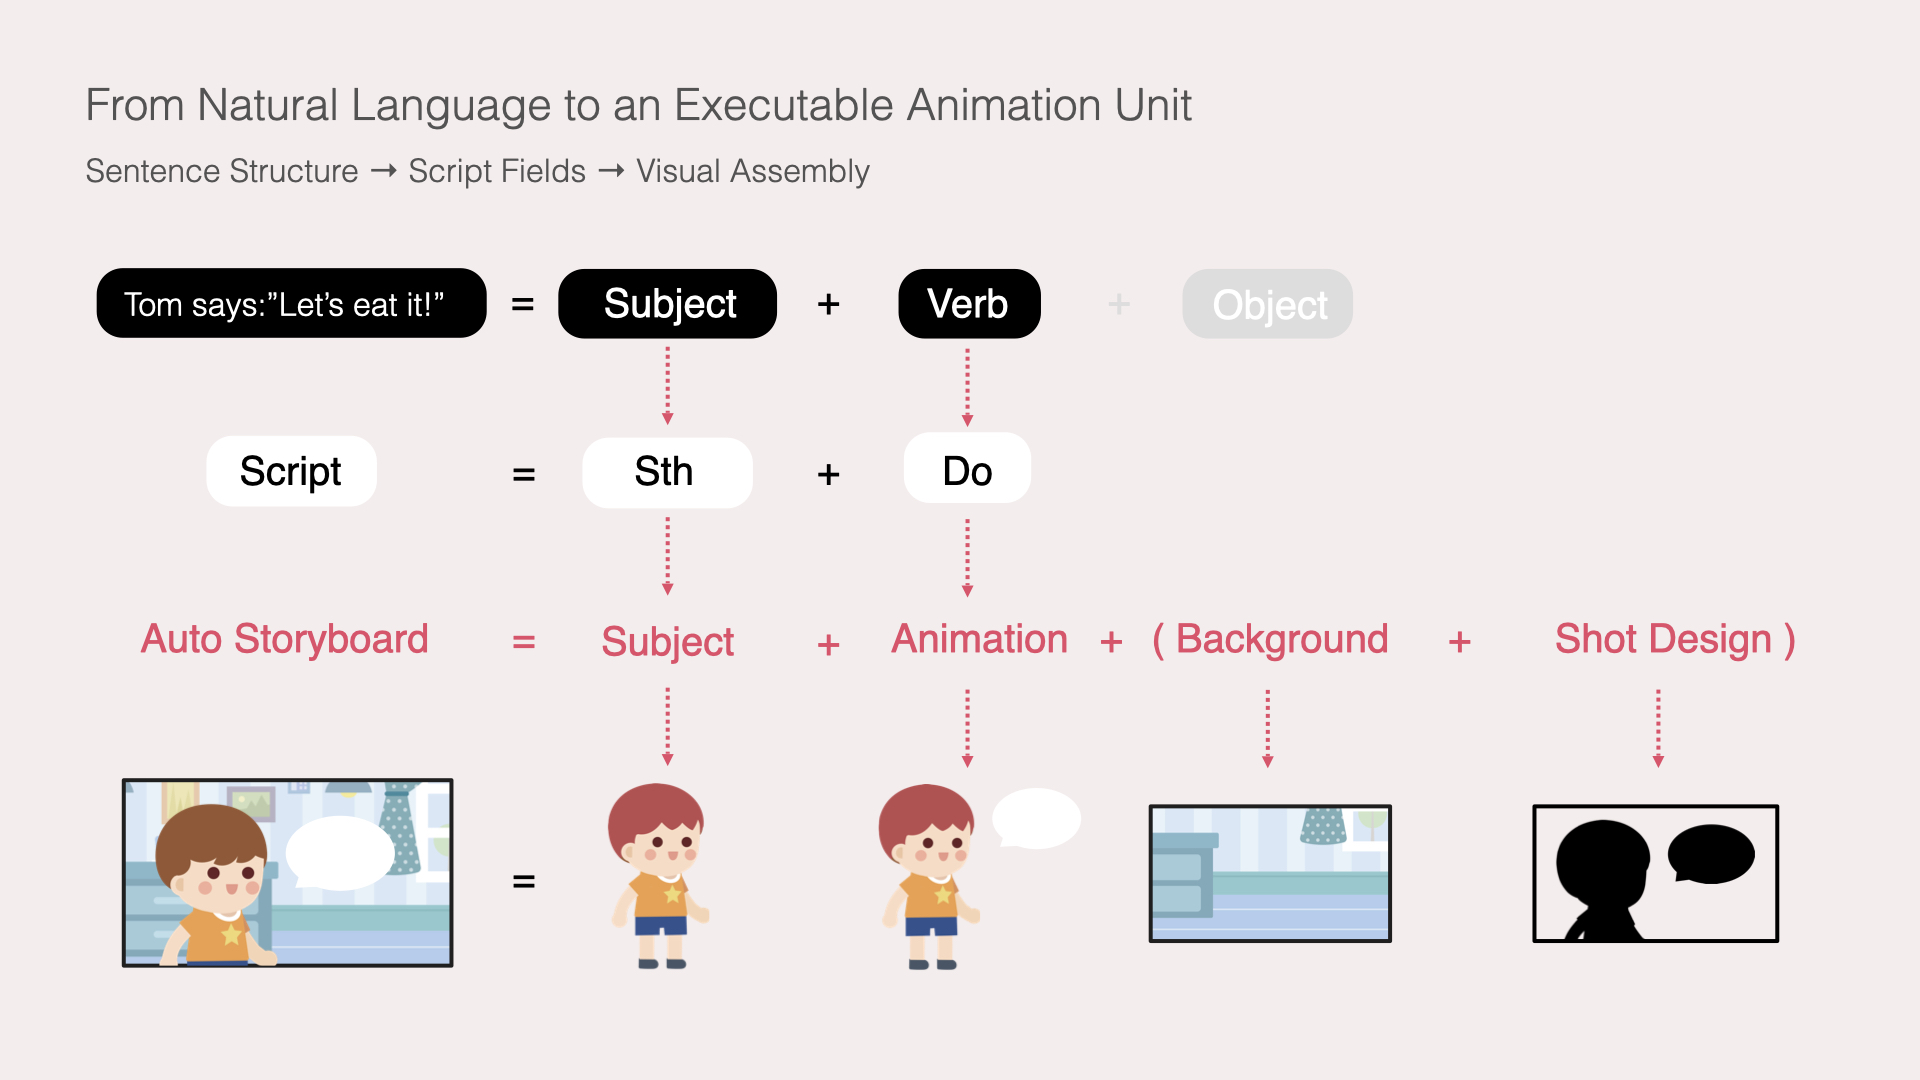
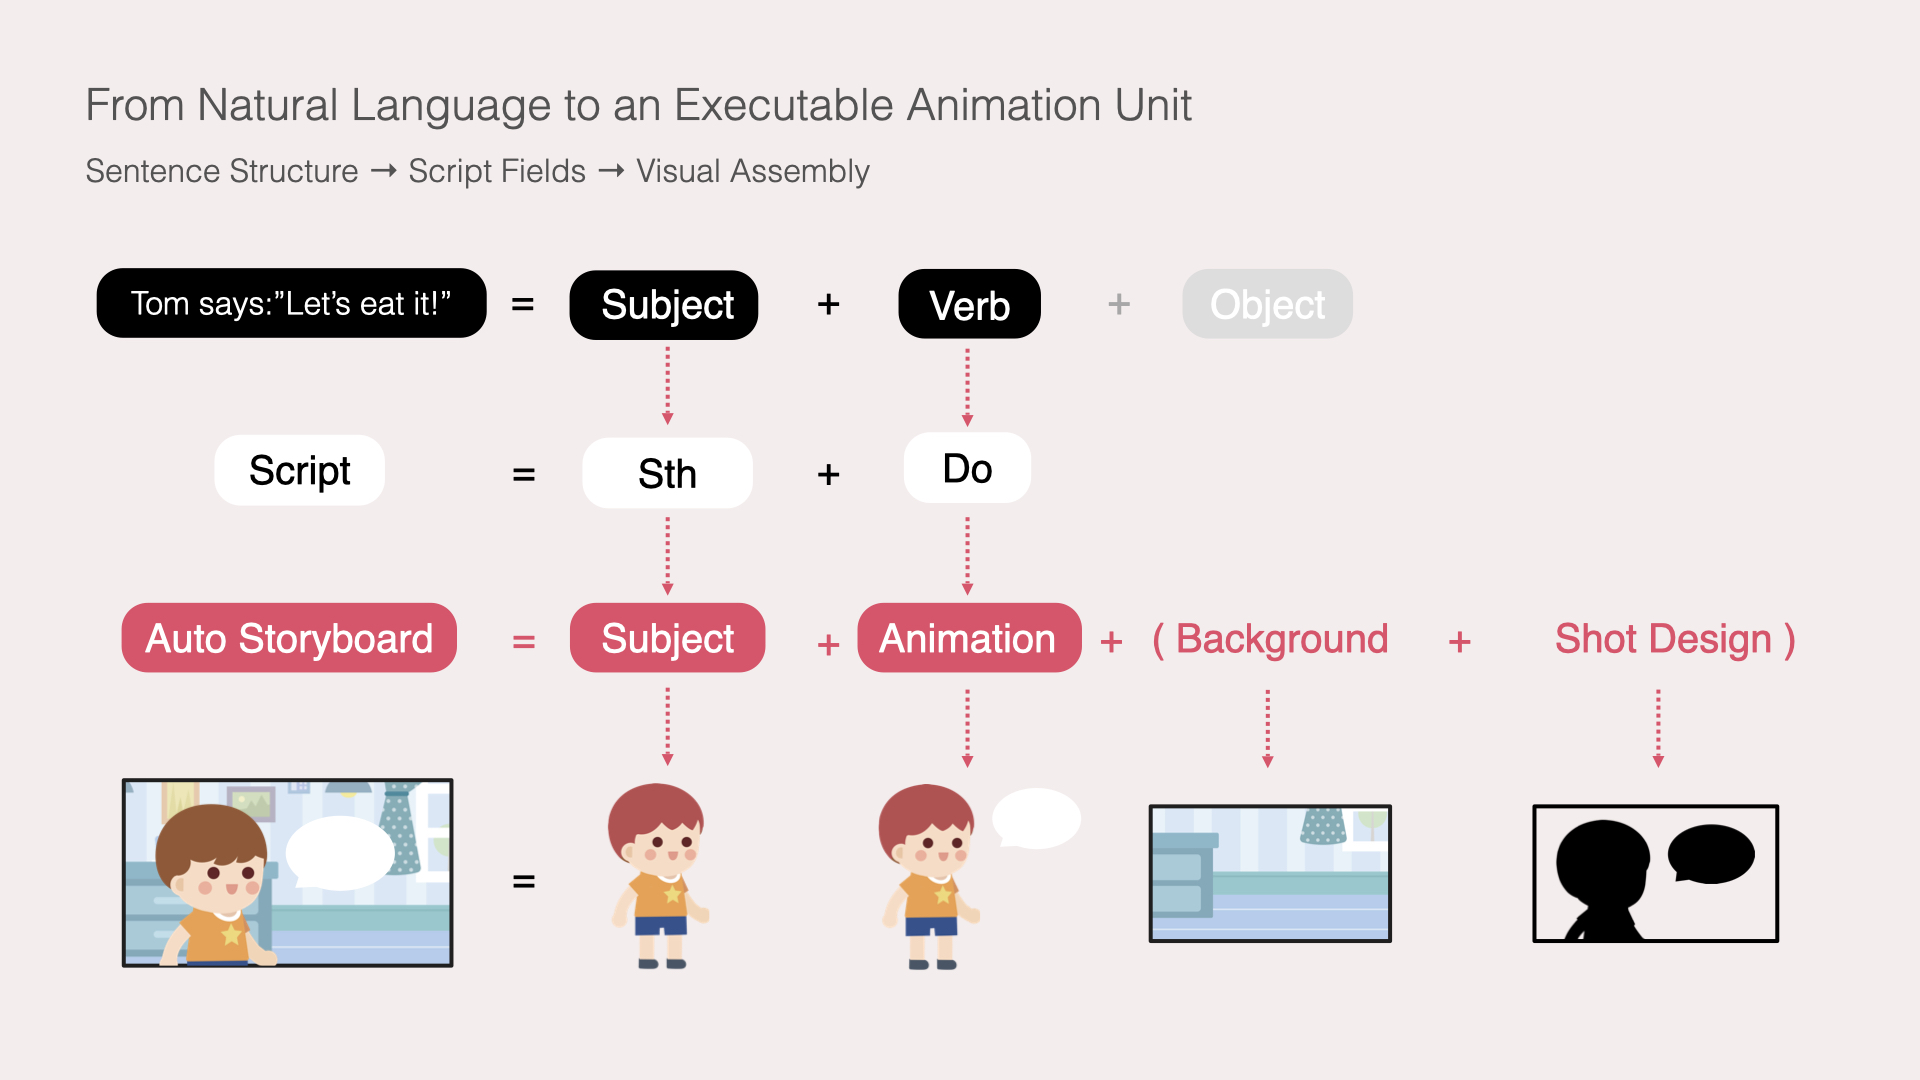
Refine Xiaoice case study evidence and interactions

diff --git a/xiaoice-storytelling.html b/xiaoice-storytelling.html
@@ -118,6 +118,16 @@
     .evidence figcaption{display:grid;grid-template-columns:170px 1fr;gap:18px;padding:17px 19px;border-top:1px solid var(--line);font-size:12px;line-height:1.6;color:var(--muted)}
     .evidence figcaption.evidence-caption--single{grid-template-columns:1fr}
     .evidence figcaption b{color:var(--ink)}
+    .evidence-details{border-top:1px solid var(--line)}
+    .evidence-details summary{display:flex;justify-content:space-between;align-items:center;gap:24px;padding:15px 19px;list-style:none;cursor:pointer;font-size:12px;line-height:1.6}
+    .evidence-details summary::-webkit-details-marker{display:none}
+    .evidence-details summary:hover{background:var(--green-soft)}
+    .evidence-summary-copy{color:var(--muted);font-weight:400}
+    .evidence-summary-action{flex:none;color:var(--green-dark);font-weight:700;white-space:nowrap}
+    .evidence-details .collapse-label{display:none}
+    .evidence-details[open] .expand-label{display:none}
+    .evidence-details[open] .collapse-label{display:inline}
+    .evidence-detail-media{border-top:1px solid var(--line)}
     .implication-pair{margin-top:12px;border:1px solid var(--line);border-radius:16px;background:white;overflow:hidden;display:grid;grid-template-columns:1fr 1fr;align-items:stretch}
     .implication-cell{padding:22px}
     .implication-cell+.implication-cell{border-left:1px solid var(--line)}
@@ -206,6 +216,7 @@
     .proof-head p{max-width:410px;margin:0;font-size:12px;line-height:1.6;color:var(--muted)}
     .proof-grid{display:grid;grid-template-columns:repeat(2,1fr);gap:12px}
     .proof-card{padding:0;border:1px solid var(--line);border-radius:15px;background:white;overflow:hidden;text-align:left;cursor:pointer;transition:transform .2s,box-shadow .2s}
+    .proof-card--span-two{grid-column:1 / -1}
     .proof-card--coverage{display:flex;flex-direction:column;align-items:stretch;justify-content:flex-start}
     .proof-card:hover{transform:translateY(-2px);box-shadow:var(--shadow)}
     .proof-card--wide{display:grid;grid-template-columns:1fr;width:100%;margin:16px 0 12px}
@@ -253,6 +264,9 @@
     .implementation-copy{padding:24px}
     .implementation-copy h3{margin:10px 0 8px}
     .implementation-copy p{font-size:12px;line-height:1.65;color:var(--muted)}
+    .implementation-copy--proof{padding:17px}
+    .implementation-copy--proof h4{margin:8px 0 6px;font-size:15px;font-family:Inter,"PingFang SC","Microsoft YaHei",system-ui,sans-serif}
+    .implementation-copy--proof p{margin:0;font-size:11.5px;line-height:1.6;color:var(--muted)}
     .timeline{display:grid;grid-template-columns:repeat(3,1fr);gap:0;margin-bottom:16px;border:1px solid var(--line);border-radius:16px;background:white;overflow:hidden}
     .timeline-item{padding:22px;background:white}
     .timeline-item+.timeline-item{border-left:1px solid var(--line)}
@@ -394,7 +408,7 @@
       <section class="hero">
         <div class="wrap">
           <div class="kicker"><span class="kicker-dot"></span>Microsoft Xiaoice · Text-to-animation system</div>
-          <h1>Turning Story-to-Animation from a Launch Concept into a Production-Ready System</h1>
+          <h1>From a Launch Concept to a Production-Ready System</h1>
           <p class="lede">面对当时尚不成熟的故事理解能力和不可规模化的传统动画方案，我将阶段目标从<strong>动画片</strong>重新定义为<strong>可动绘本</strong>，并建立 Story-to-Script、Auto Storyboard 与可复用视觉资产系统，为小冰 C 端 App 持续生产“讲故事”内容。</p>
 
           <div class="hero-flow-label mono">00 / Case study at a glance</div>
@@ -524,12 +538,14 @@
 
           <figure class="evidence">
             <img src="assets/xiaoice-product-reframe-original-v2.jpeg" alt="项目中从动画片制作目标到可动绘本产品形态的对比">
-            <figcaption class="evidence-caption--single"><span>左：依赖逐镜头设计和连续表演的动画片；右：以独立画面和有限动效连接叙事的可动绘本。</span></figcaption>
-            <img src="assets/XiaoiceAudioBook/作品集_小冰绘本生成完整版_20210114.032.jpeg" alt="同一故事在连续场景动画与可动绘本两种生产逻辑下的画面差异">
+            <details class="evidence-details">
+              <summary><span class="evidence-summary-copy">左：依赖逐镜头设计和连续表演的动画片；右：以独立画面和有限动效连接叙事的可动绘本。</span><span class="evidence-summary-action"><span class="expand-label">查看两种产品形态的逐句画面对比 ↓</span><span class="collapse-label">收起对比 ↑</span></span></summary>
+              <div class="evidence-detail-media"><img src="assets/XiaoiceAudioBook/作品集_小冰绘本生成完整版_20210114.032.jpeg" alt="同一故事在连续场景动画与可动绘本两种生产逻辑下的画面差异"></div>
+            </details>
           </figure>
 
-          <button class="proof-card proof-card--wide" data-full="assets/XiaoiceAudioBook/作品集_小冰绘本生成完整版_20210114.035.jpeg" data-title="MVP：主体图像 + 动画" data-caption="语义分析可以保留宾语，但首版不为宾语生成独立图像，只将主语映射为主体、谓语或表语结构映射为动画。">
-            <div class="proof-thumb"><img src="assets/XiaoiceAudioBook/作品集_小冰绘本生成完整版_20210114.035.jpeg" alt="从故事句式到 Script 与视觉画面的 MVP 映射规则"></div>
+          <button class="proof-card proof-card--wide" data-full="assets/XiaoiceAudioBook/作品集_小冰绘本生成完整版_20210114.035.jpeg?v=20260818-1801" data-title="MVP：主体图像 + 动画" data-caption="语义分析可以保留宾语，但首版不为宾语生成独立图像，只将主语映射为主体、谓语或表语结构映射为动画。">
+            <div class="proof-thumb"><img src="assets/XiaoiceAudioBook/作品集_小冰绘本生成完整版_20210114.035.jpeg?v=20260818-1801" alt="从故事句式到 Script 与视觉画面的 MVP 映射规则"></div>
             <div class="proof-copy"><span class="proof-kicker">MVP system boundary</span><h4>先实现“主体图像 + 动画”</h4><p>主动缩小视觉语义范围，先证明文字可以稳定生成会动的画面。</p><span class="proof-open">查看原图 ↗</span></div>
           </button>
 
@@ -691,8 +707,8 @@
               <div><span class="section-no">Original specification</span><h3>我编写的句法与脚本规则</h3></div>
             </div>
             <div class="proof-grid">
-              <button class="proof-card" data-doc="动画原理_可编辑整理版_html.html" data-title="复杂叙事的规则拆解" data-caption="完整的 Text-to-Script 原理、句法拆分方法和规则原稿。">
-                <div class="proof-thumb"><img src="assets/xiaoice-rule-decomposition.png" alt="复杂叙事拆句规则"></div>
+              <button class="proof-card" data-doc="动画原理_可编辑整理版_html.html?view=rules" data-title="复杂叙事的规则拆解" data-caption="完整的 Text-to-Script 原理、句法拆分方法和规则原稿。">
+                <div class="proof-thumb"><img src="assets/xiaoice-rule-decomposition-cover.svg?v=20260818-9" alt="自然语言故事被拆解为场景、主体和动作字段"></div>
                 <div class="proof-copy"><span class="proof-kicker">Rule specification</span><h4>复杂叙事的规则拆解</h4><p>判断哪些信息进入主体、动作 / 状态和场景上下文。</p><span class="proof-open">打开完整规则文档 ↗</span></div>
               </button>
               <button class="proof-card" data-full="assets/xiaoice-pattern-coordination-042.jpeg" data-title="并列句转换为原子动作" data-caption="将“小红笑了，并吃了一颗糖”转换为两个主谓单元，补全第二句主语，使系统识别两个独立动作。">
@@ -781,7 +797,7 @@
               <p>点击查看每一层的变量结构和原始设计证据。</p>
             </div>
             <div class="proof-grid">
-              <button class="proof-card" data-gallery="assets/XiaoiceAudioBook/小冰动画绘本最新完整版（作品集_小冰绘本生成完整版_20210114）.046.jpeg|assets/XiaoiceAudioBook/小冰动画绘本最新完整版（作品集_小冰绘本生成完整版_20210114）.047.jpeg|assets/XiaoiceAudioBook/小冰动画绘本最新完整版（作品集_小冰绘本生成完整版_20210114）.048.jpeg|assets/XiaoiceAudioBook/小冰动画绘本最新完整版（作品集_小冰绘本生成完整版_20210114）.049.jpeg|assets/XiaoiceAudioBook/小冰动画绘本最新完整版（作品集_小冰绘本生成完整版_20210114）.050.jpeg|assets/XiaoiceAudioBook/小冰动画绘本最新完整版（作品集_小冰绘本生成完整版_20210114）.051.jpeg|assets/XiaoiceAudioBook/小冰动画绘本最新完整版（作品集_小冰绘本生成完整版_20210114）.052.jpeg|assets/XiaoiceAudioBook/小冰动画绘本最新完整版（作品集_小冰绘本生成完整版_20210114）.053.jpeg|assets/XiaoiceAudioBook/小冰动画绘本最新完整版（作品集_小冰绘本生成完整版_20210114）.082.jpeg|assets/XiaoiceAudioBook/小冰动画绘本最新完整版（作品集_小冰绘本生成完整版_20210114）.083.jpeg" data-cover-count="8" data-gallery-label="Subject asset library" data-title="主体组合资产" data-caption="从模块化组合规则、最终生产资产到前期视觉方向探索，共 10 张设计原稿。">
+              <button class="proof-card proof-card--span-two" data-gallery="assets/XiaoiceAudioBook/小冰动画绘本最新完整版（作品集_小冰绘本生成完整版_20210114）.046.jpeg|assets/XiaoiceAudioBook/小冰动画绘本最新完整版（作品集_小冰绘本生成完整版_20210114）.047.jpeg|assets/XiaoiceAudioBook/小冰动画绘本最新完整版（作品集_小冰绘本生成完整版_20210114）.048.jpeg|assets/XiaoiceAudioBook/小冰动画绘本最新完整版（作品集_小冰绘本生成完整版_20210114）.049.jpeg|assets/XiaoiceAudioBook/小冰动画绘本最新完整版（作品集_小冰绘本生成完整版_20210114）.050.jpeg|assets/XiaoiceAudioBook/小冰动画绘本最新完整版（作品集_小冰绘本生成完整版_20210114）.051.jpeg|assets/XiaoiceAudioBook/小冰动画绘本最新完整版（作品集_小冰绘本生成完整版_20210114）.052.jpeg|assets/XiaoiceAudioBook/小冰动画绘本最新完整版（作品集_小冰绘本生成完整版_20210114）.053.jpeg|assets/XiaoiceAudioBook/小冰动画绘本最新完整版（作品集_小冰绘本生成完整版_20210114）.082.jpeg|assets/XiaoiceAudioBook/小冰动画绘本最新完整版（作品集_小冰绘本生成完整版_20210114）.083.jpeg" data-cover-count="8" data-gallery-label="Subject asset library" data-title="主体组合资产" data-caption="从模块化组合规则、最终生产资产到前期视觉方向探索，共 10 张设计原稿。">
                 <div class="proof-thumb"><img src="assets/XiaoiceAudioBook/小冰动画绘本最新完整版（作品集_小冰绘本生成完整版_20210114）.049.jpeg" alt="主体组合资产设计"></div>
                 <div class="proof-copy"><span class="proof-kicker">Subject assets</span><h4>主体组合资产</h4><p>将人物和拟人动物拆成可组合、可继续扩展的变量。</p><span class="proof-open">查看 10 张设计原稿 ↗</span></div>
               </button>
@@ -800,10 +816,6 @@
               <button class="proof-card" data-full="assets/XiaoiceAudioBook/小冰动画绘本最新完整版（作品集_小冰绘本生成完整版_20210114）.081.jpeg" data-title="素材分类、命名与检索" data-caption="类型、语义分类、属性和变体编号共同组成可被设计团队与系统理解的素材 ID。">
                 <div class="proof-thumb"><img src="assets/XiaoiceAudioBook/小冰动画绘本最新完整版（作品集_小冰绘本生成完整版_20210114）.081.jpeg" alt="素材分类、命名与检索规则"></div>
                 <div class="proof-copy"><span class="proof-kicker">Taxonomy &amp; naming</span><h4>素材分类、命名与检索</h4><p>让 Script 解析结果可以转化为检索条件，也让新增资产直接进入系统。</p><span class="proof-open">查看原始表格 ↗</span></div>
-              </button>
-              <button class="proof-card" data-full="assets/xiaoice-mvp-atomic-story.png" data-title="动画单元的连续组合" data-caption="故事被拆成多个句法单元，每个可视化单元生成对应画面，再通过转场连接为连续内容。">
-                <div class="proof-thumb"><img src="assets/xiaoice-mvp-atomic-story.png" alt="动画单元组成完整故事"></div>
-                <div class="proof-copy"><span class="proof-kicker">Generation units</span><h4>动画单元组成完整故事</h4><p>把资产系统和脚本规则连接成可重复生产的内容链路。</p><span class="proof-open">查看原图 ↗</span></div>
               </button>
             </div>
           </div>
@@ -848,9 +860,9 @@
             </button>
             <div class="implementation" style="margin:0;grid-template-columns:1fr">
               <img src="assets/xiaoice-developer-adjustment-tool.png" alt="开发伙伴搭建的内部调整平台">
-              <div class="implementation-copy">
-                <span class="eyebrow">Developer-built internal tool</span>
-                <h3>为调试和修正保留可编辑参数</h3>
+              <div class="implementation-copy implementation-copy--proof">
+                <span class="proof-kicker">Developer-built internal tool</span>
+                <h4>为调试和修正保留可编辑参数</h4>
                 <p>该平台由开发伙伴自行搭建，不是我的 UI 设计交付；它证明构图、图层、字幕和动画规则已被工程化为可调参数。</p>
               </div>
             </div>

diff --git a/动画原理_可编辑整理版_html.html b/动画原理_可编辑整理版_html.html
@@ -3,7 +3,7 @@
 <head>
 <meta charset="utf-8">
 <meta name="viewport" content="width=device-width, initial-scale=1">
-<title>Text to Script的原理和规则</title>
+<title>From Natural Language to Executable Scripts</title>
 <link rel="preconnect" href="https://fonts.googleapis.com">
 <link rel="preconnect" href="https://fonts.gstatic.com" crossorigin>
 <link href="https://fonts.googleapis.com/css2?family=Inter:wght@400;500;600;700;800&family=JetBrains+Mono:wght@400;500;600&family=Space+Grotesk:wght@500;600;700&display=swap" rel="stylesheet">
@@ -15,6 +15,7 @@ body { margin: 0; background: var(--bg); color: var(--ink); font-family: Inter, 
 main { width: min(1180px, calc(100% - 32px)); margin: 32px auto 56px; background: var(--card); border: 1px solid var(--line); border-radius: 18px; padding: 38px 42px; }
 h1,h2,h3 { font-family: "Space Grotesk", Inter, "PingFang SC", "Microsoft YaHei", sans-serif; }
 h1 { font-size: 34px; margin: 0 0 12px; line-height: 1.15; letter-spacing: -1px; }
+.document-subtitle { margin: 0 0 34px; color: var(--muted); font-size: 15px; line-height: 1.55; }
 h2 { font-size: 23px; margin: 40px 0 12px; padding-top: 0; border-top: 0; letter-spacing: -.35px; }
 h3 { font-size: 18px; margin: 26px 0 10px; letter-spacing: -.15px; }
 h4 { font-size: 16px; margin: 18px 0 8px; color: var(--soft); }
@@ -107,6 +108,11 @@ body.coverage-only { background: var(--card); }
 body.coverage-only main { width: 100%; margin: 0; border: 0; border-radius: 0; padding: 24px; }
 body.coverage-only main > :not(#case-table):not(.manual-boundaries):not(#case-table-data) { display: none !important; }
 body.coverage-only #case-table { margin: 0 0 12px; }
+body.rules-only #case-table,
+body.rules-only #case-table + .section-subtitle,
+body.rules-only .manual-boundaries,
+body.rules-only #case-table-data { display: none !important; }
+body.rules-only main { padding-top: 72px; }
 @media (max-width: 1100px) { .manual-boundary-grid { grid-template-columns: repeat(2, minmax(0, 1fr)); } .manual-boundary-item:last-child { grid-column: 1 / -1; } }
 @media (max-width: 900px) { .case-table-layout { grid-template-columns: 148px minmax(0, 1fr); gap: 10px; } .coverage-legend { top: 8px; gap: 7px; } .coverage-item { min-height: 70px; padding: 12px; } .coverage-item strong { font-size: 21px; } .coverage-item span { font-size: 12px; } .case-table-layout .table-wrap { overflow-x: auto; } .case-table-layout .unified-case-table { min-width: 900px; } }
 @media (max-width: 640px) { body { font-size: 15px; } main { width: 100%; margin: 0; border: 0; padding: 22px 10px 40px; } h1 { font-size: 25px; } h2 { font-size: 19px; } th, td { padding: 7px 6px; } .tok { padding: 1px 4px 2px; } }
@@ -114,9 +120,14 @@ body.coverage-only #case-table { margin: 0 0 12px; }
 </style>
 </head>
 <body>
-<script>if (new URLSearchParams(location.search).get('view') === 'coverage') document.body.classList.add('coverage-only');</script>
+<script>
+const documentView = new URLSearchParams(location.search).get('view');
+if (documentView === 'coverage') document.body.classList.add('coverage-only');
+if (documentView === 'rules') document.body.classList.add('rules-only');
+</script>
 <main>
-<h1>Text to Script的原理和规则</h1>
+<h1>From Natural Language to Executable Scripts</h1>
+<p class="document-subtitle">Story Decomposition, Sentence Normalization &amp; Visual Mapping Rules</p>
 <h2>一、文字自动生成动画的核心方法</h2>
 <p>动画 = 画 + 动</p>
 <p>动画片 =（画 + 动）<span class="role-mark">【转场】</span>（画 + 动）……</p>

diff --git a/portfolio.html b/portfolio.html
@@ -2261,7 +2261,7 @@
               </div>
               <div class="work-visual-col">
                 <div class="visual visual--shot">
-                  <img src="assets/xiaoice-mvp-system-boundary-035.jpeg" alt="Xiaoice story-to-animation system mapping story structure to reusable visual assets" loading="lazy">
+                  <img src="assets/XiaoiceAudioBook/作品集_小冰绘本生成完整版_20210114.035.jpeg?v=20260818-1801" alt="Xiaoice story-to-animation system mapping story structure to reusable visual assets" loading="lazy">
                 </div>
                 <span class="case-cta">Read case study <span class="case-cta__arrow" aria-hidden="true">&rarr;</span></span>
               </div>
@@ -2301,7 +2301,7 @@
               </div>
               <div class="tool-embed tool-embed--param">
                 <iframe src="assets/parametric-demo.html" title="Parametric Tool demo" loading="lazy"></iframe>
-                <button class="tool-expand-button" type="button" data-demo-src="assets/parametric-demo.html" data-demo-title="Parametric Tool" aria-label="Open Parametric Tool in a large window">
+                <button class="tool-expand-button" type="button" data-demo-src="assets/parametric-demo.html?expanded=1&amp;v=2" data-demo-title="Parametric Tool" aria-label="Open Parametric Tool in a large window">
                   <svg viewBox="0 0 24 24" fill="none" stroke="currentColor" stroke-width="1.8" stroke-linecap="round" stroke-linejoin="round" aria-hidden="true"><path d="M8 3H3v5M16 3h5v5M21 16v5h-5M3 16v5h5"/></svg>
                 </button>
               </div>
